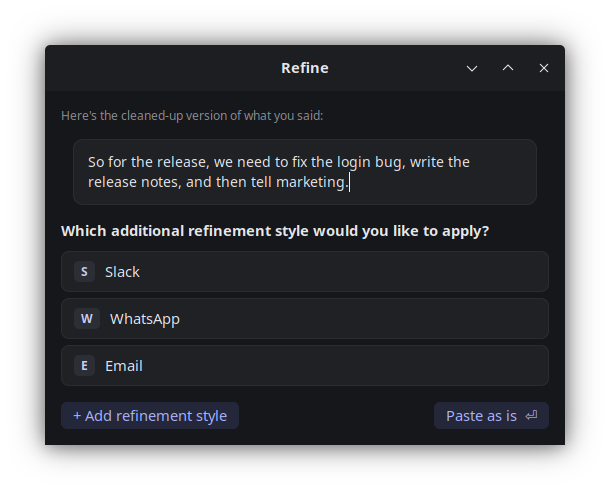
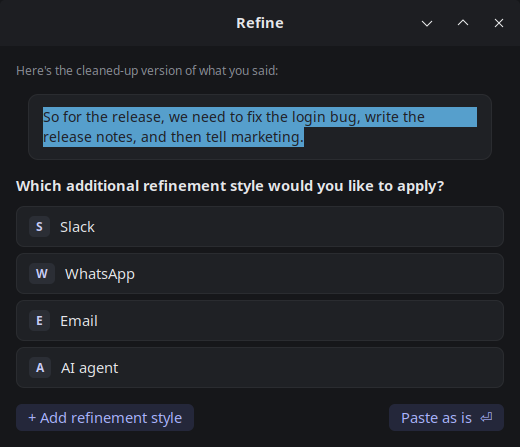
README: factual overview, feature list and technical notes; refresh screenshots
Screenshots are now generated from sample data by docs/make_screenshots.py, which renders the windows off-screen instead of capturing the screen.

diff --git a/docs/make_screenshots.py b/docs/make_screenshots.py
@@ -1,0 +1,88 @@
+#!/usr/bin/env python3
+"""Regenerates the README screenshots in docs/ from sample data: python docs/make_screenshots.py
+
+Windows are drawn off-screen and saved straight to PNG, so nothing on the screen is captured and no
+real history, styles or settings are used."""
+import json, os, shutil, sys, tempfile, wave
+from pathlib import Path
+from types import SimpleNamespace
+
+ROOT = Path(__file__).resolve().parent.parent
+sys.path.insert(0, str(ROOT))
+import dictate, osio, refine, windows  # noqa: E402  (dictate first: it sets up the venv and GTK)
+from gi.repository import GLib, Gtk  # noqa: E402
+
+DOCS = ROOT / "docs"
+SAMPLE = [  # (time, text, raw, app, style, has a recording)
+    ("09:12:04", "Morning! Can you send me the slides before the 10 o'clock?",
+     "um morning can you can you send me the slides before the uh ten o'clock", "Slack", "Slack", True),
+    ("11:40:31", "For the release, we need to:\n- fix the login bug\n- write the release notes\n- tell marketing",
+     "so for the release we need to uh fix the login bug write the release notes and then tell marketing", "Slack", "Slack", True),
+    ("14:05:12", "Run the tests with `pytest -k login` and tell me what fails.",
+     "run the tests with pytest dash k login and tell me what fails", "other computer", "AI agent", True),
+    ("15:22:47", "running about ten minutes late sorry", None, "firefox", None, False),
+]
+
+
+def offscreen(win, path, classes, size):
+    """Move a window's header bar and contents into an off-screen window and save it as a PNG."""
+    bar, body = win.get_titlebar(), win.get_child()
+    win.hide()
+    win.set_titlebar(None)
+    win.remove(body)
+    box = Gtk.Box(orientation=Gtk.Orientation.VERTICAL)
+    box.pack_start(bar, False, False, 0)
+    box.pack_start(body, True, True, 0)
+    off = Gtk.OffscreenWindow()
+    windows.css(off, *classes)
+    off.add(box)
+    off.set_size_request(*size)
+    box.show()  # not show_all(): that would also show widgets the window hides on purpose
+    off.show()
+    for _ in range(50):  # let GTK lay out and paint
+        while Gtk.events_pending():
+            Gtk.main_iteration()
+    off.get_pixbuf().savev(str(path), "png", [], [])
+    print("wrote", path.relative_to(ROOT))
+    win.destroy()
+    off.destroy()
+
+
+def main():
+    tmp = Path(tempfile.mkdtemp())
+    refine.STYLES, refine.VOCAB = tmp / "styles.json", tmp / "vocab.txt"  # the built-in default styles
+    refine.save_styles({"cleanup": refine.CLEANUP, "styles": refine.DEFAULT_STYLES})
+    audio = tmp / "audio"
+    audio.mkdir()
+    history, lines = tmp / "history.jsonl", []
+    for when, text, raw, app, style, has_audio in SAMPLE:
+        entry = {"t": f"2026-10-20T{when}", "text": text, "app": app, "cleanup": raw is not None}
+        if raw:
+            entry["raw"] = raw
+        if style:
+            entry["style"] = style
+        if has_audio:
+            entry["audio"] = f"{when}.wav"
+            with wave.open(str(audio / entry["audio"]), "wb") as w:  # a silent placeholder recording
+                w.setnchannels(1), w.setsampwidth(2), w.setframerate(16000), w.writeframes(bytes(3200))
+        lines.append(json.dumps(entry))
+    history.write_text("\n".join(lines) + "\n")
+
+    windows.install_css()
+    app = SimpleNamespace(player=osio.Player(), cfg={"keep_audio_hours": 24}, KEEP_AUDIO=dictate.KEEP_AUDIO,
+                          set_keep_audio=lambda hours: None, copy=lambda text: None)
+    windows.history(app, history, audio)
+    offscreen(next(w for w in Gtk.Window.list_toplevels() if w.get_title() == "History"), DOCS / "history.png", ["win"], (760, 470))
+
+    picker = windows.StylePicker("So for the release, we need to fix the login bug, write the release notes, "
+                                 "and then tell marketing.", lambda *a: None)
+    offscreen(picker.win, DOCS / "picker.png", ["win"], (520, -1))
+
+    manager = windows.StyleManager()
+    manager.list.select_row(manager.list.get_row_at_index(manager.FIXED))  # the first style (Slack)
+    offscreen(manager.win, DOCS / "styles.png", ["win", "editor"], (760, 560))
+    shutil.rmtree(tmp)
+
+
+if __name__ == "__main__":
+    main()

diff --git a/README.md b/README.md
@@ -1,24 +1,32 @@
 # Dictate
 
-**Talk instead of type: hold a hotkey, speak, and your words appear as clean, punctuated text in whatever app you're using.**
+Push-to-talk dictation that runs entirely on your own computer. Hold a hotkey and speak; when you let go, the transcribed and cleaned-up text is pasted into the app you're typing in. Built for Linux (SteamOS / KDE Plasma); Windows and macOS support is included but untested.
 
-- **Faster than typing.** Most people speak about three times faster than they type.
-- **Reads like you wrote it.** Ums, stutters and "Tuesday, no, Wednesday" are cleaned up, and it can format for Slack, email, WhatsApp or AI agents.
-- **Private and free.** Everything runs on your own computer, with no account, subscription or audio sent anywhere.
+## Features
+- **Hotkey dictation:** hold **Ctrl+Win** (Ctrl+Cmd on a Mac), speak, release to paste.
+- **Local speech recognition:** Parakeet TDT 0.6B on the CPU, transcribing as you speak.
+- **Clean-up:** a local language model (Qwen3.5) removes filler words, applies self-corrections and fixes punctuation and mis-heard words. It uses the GPU when one is free, otherwise the CPU.
+- **Refinement styles:** reformat for Slack, WhatsApp, email or AI agents, or your own styles. Pick one per dictation, set a default, or match styles to apps automatically.
+- **Vocabulary:** names and terms you use, spelled the way you spell them.
+- **History:** every dictation with what was applied, playback of the recording, copy, delete and clear. Recordings are kept for a time you choose.
+- **Synergy:** while your keyboard is controlling another computer, the text is typed there.
+- **Floating icon and system tray icon** with the same menu, and an optional **Run at startup**.
+- **Self-contained:** everything installs into this folder. Dictate sends nothing over the network; models are downloaded once, during setup.
 
 ## Using it
-Hold **Ctrl+Win** (Ctrl+Cmd on a Mac) to record, release to transcribe and paste into the focused text box.
+Hold **Ctrl+Win** to record, release to transcribe and paste into the focused text box.
 - **Tap Alt** while holding: when you let go, a window shows the cleaned-up text and asks which refinement style to apply (press its letter, Enter to paste as is, or Esc to only copy it).
 - **Alt+letter** while holding (e.g. Alt+S): applies that style directly, with no window.
-- **Default style** (right-click > Default style): a style applied to every plain Ctrl+Win dictation after cleanup. Choose "None" for cleanup only.
-- **Per-app styles**: a style whose "Use automatically in apps" keywords match the focused app or window title (e.g. "slack") is used instead of the default. The app's name and title are also given to the model as context.
-- **Vocabulary** (Refinement styles… > Vocabulary): names and terms you use, so cleanup spells them right and fixes mis-hearings.
+- **Default style** (menu > Default style): applied to every plain Ctrl+Win dictation after cleanup. "None" means cleanup only.
+- **Per-app styles:** a style whose "Use automatically in apps" keywords match the focused app or window title (e.g. "slack") is used instead of the default. The app's name and title are also given to the model as context.
+- **Vocabulary** (Refinement styles… > Vocabulary): one name or term per line; cleanup prefers these spellings and fixes mis-hearings of them.
+- **Refine text** (menu): off gives the raw transcript, fastest.
+- **Synergy and similar:** while your keyboard is controlling another computer, Dictate records here and *types* the text, so it arrives there as keystrokes (no microphone needed over there). Per-app styles can't apply there, so it has its own **Default style there**, under **When another computer has the keyboard** in the menu, which can also make it ignore the hotkey instead.
 - On Linux, terminals get Ctrl+Shift+V instead of Ctrl+V.
-- **Synergy and similar**: while your keyboard is controlling another computer, Dictate records here and *types* the text, so it arrives there as keystrokes (no microphone needed over there). Per-app styles can't apply there, so it has its own **Default style there** (under **When another computer has the keyboard** in the menu, which can also make it ignore the hotkey instead).
 
-**History** lists every dictation with what was applied to it (raw transcript, cleanup, and any style). You can play back the recording, copy the text or the original transcript, delete an entry, or clear it all.
+The floating dot is dark when idle, red with pulsing rings while recording, and shows a spinner while transcribing. Drag it to move it. Right-click it (or click the system tray icon) for the menu: Refine text, Default style, History, Refinement styles…, When another computer has the keyboard, Run at startup and Quit.
 
-The floating dot is dark when idle, red with pulsing rings while recording, and shows a spinner while transcribing. Drag it to move it. Right-click it (or click the system tray icon) for Refine text, Default style, History, Refinement styles…, Run at startup and Quit.
+**History** lists every dictation with what was applied (raw transcript, cleanup, and any style). Each entry can play its recording, copy the text or the original transcript, or be deleted; **Clear history** removes everything. **Keep recordings** at the top sets how long audio is kept: not at all, 1–24 hours (default 24), or forever.
 
 ![Floating icon: idle, recording, transcribing](docs/icon-states.png)
 
@@ -27,6 +35,8 @@ The floating dot is dark when idle, red with pulsing rings while recording, and 
 | ![Style picker](docs/picker.png) | ![History](docs/history.png) |
 
 ![Refinement styles](docs/styles.png)
+
+Screenshots are generated from sample data with `python docs/make_screenshots.py` (rendered off-screen).
 
 ## Recommended hardware
 | | Minimum | Recommended |
@@ -37,16 +47,14 @@ The floating dot is dark when idle, red with pulsing rings while recording, and 
 | **Disk** | ~10 GB for the models | SSD, so the models load quickly |
 | **Microphone** | Built-in | A headset or close-up mic: the biggest single help in noisy rooms |
 
-Transcription always runs on the CPU and is quick: about 0.1 s for a sentence. Refining text is the heavy part. With a free GPU it uses the larger 9B model; otherwise it uses the 4B model on the CPU, which is slower (about 1–2 s per dictation on a recent 8-core desktop, longer on laptops). Turn off **Refine text** for the fastest, transcription-only dictation.
-
-Tested on an AMD Ryzen 7 9800X3D with 64 GB of RAM and a Radeon RX 9070 XT (16 GB), where a cleaned-up dictation takes about 0.5–1.5 s in total.
+Transcription runs on the CPU while you speak, so little is usually left when you let go (0.1 s or less, unless you've spoken for a long time without a pause). Refining text is the heavy part: with a free GPU it uses the 9B model, otherwise the 4B model on the CPU, which is slower (about 1–2 s per dictation on a recent 8-core desktop, longer on laptops). Tested on an AMD Ryzen 7 9800X3D with 64 GB of RAM and a Radeon RX 9070 XT (16 GB), where a cleaned-up dictation is ready about 0.5–1.5 s after letting go.
 
 ## Setup (self-contained)
 Each setup script installs into this folder and nothing anywhere else, and is safe to re-run:
 - `models/`: Parakeet TDT 0.6B v3 int8 (~640 MB), the Silero VAD speech filter, and Qwen3.5 4B (~2.7 GB, CPU) and 9B (~5.7 GB, GPU) for refinement.
 - `bin/llama/`: a llama.cpp release (Vulkan on Linux/Windows, Metal on macOS), used for refinement.
 - `.venv/`: Python packages.
-- `data/`: history, settings, refinement styles (`data/styles.json`, managed via right-click > Refinement styles…), and each dictation's recording (`data/audio/`, about 2 MB a minute, kept for 24 hours by default: change it with **Keep recordings** at the top of the History window, from not at all to forever).
+- `data/`: your history, recordings, settings, styles and vocabulary (see Technical notes).
 
 Delete the folder to remove the app completely.
 
@@ -54,6 +62,7 @@ Delete the folder to remove the app completely.
 `./setup.sh`, then `python dictate.py` (it switches to `.venv` automatically). It reuses the system's GTK and evdev bindings read-only.
 If a SteamOS update breaks the app, run `./setup.sh` again; it rebuilds `.venv` for the new system Python.
 To start it at login, tick **Run at startup** in the menu (adds `~/.config/autostart/dictate.desktop`; unticking removes it).
+Other distributions need the same pieces SteamOS ships: read access to `/dev/input/event*` and `/dev/uinput` (SteamOS gets this from Steam's udev rules), PyGObject with GTK 3, python-evdev, the dbusmenu GObject bindings (for the tray), and PipeWire's `pw-record`/`pw-play`. Focused-app detection uses KWin, so per-app styles need KDE.
 
 ### Windows 10/11 (untested)
 1. Install Python 3.14: `winget install -e --id Python.Python.3.14` (GTK's Python bindings are built for 3.14).
@@ -70,13 +79,26 @@ Hold **Ctrl+Win**. The GPU model is used on NVIDIA cards with enough free memory
 Hold **Ctrl+Cmd** (Option is Alt). There's no menu-bar icon on macOS (GTK 3 can't make one), so use the floating icon's menu. **Run at startup** adds a LaunchAgent (`~/Library/LaunchAgents/local.dictate.plist`). macOS will ask for Microphone, Input Monitoring (hotkey) and Accessibility (paste) permissions for the app you launch it from; restart Dictate after granting them. Screen Recording is optional and lets per-app styles see window titles. Macs with 16 GB of RAM or more use the 9B model on the GPU (Metal).
 
 ## Code
-- `dictate.py`: floating icon and the dictation pipeline
-- `osio.py`: everything OS-specific: global hotkey, recording, paste and run-at-startup (evdev/pw-record/uinput on Linux, pynput/sounddevice on Windows and macOS)
-- `stt.py`: transcription. The VAD strips non-speech, then Parakeet runs on the CPU. It transcribes while you speak: each stretch is transcribed as soon as you pause, so little is left when you let go.
+- `dictate.py`: floating icon, menu and the dictation pipeline (record → transcribe → cleanup → style → paste or type).
+- `osio.py`: everything OS-specific: global hotkey, recording, playback, paste, typing and run-at-startup (evdev/pw-record/pw-play/uinput on Linux, pynput/sounddevice on Windows and macOS).
+- `stt.py`: transcription. The VAD strips non-speech, then Parakeet runs on the CPU. `Live` follows the recording while it grows and transcribes each stretch of speech as soon as you pause; `transcribe()` does a whole file (the fallback).
+- `refine.py`: the default cleanup, then any style on top; style storage. Pressing the hotkey (or Alt) starts loading the model: the larger GPU model if the GPU has enough free memory and is under 30% busy, otherwise the smaller CPU model (`MODELS`). It's unloaded after 30 s of no use.
 - `windows.py`: History, the refinement style manager, and the style picker.
 - `remote.py`: tells when the keyboard is on another computer (so the text is typed there), from KWin's input-capture signals and Synergy's log.
 - `tray.py`: the system tray icon with the same menu (a StatusNotifierItem plus dbusmenu on KDE, GTK's status icon on Windows).
 - `activewin.py` + `kwin_active.js`: tracks the focused window. On KDE, KWin loads the script at runtime and unloads it on exit; it's never installed. Windows and macOS ask the OS directly.
 - `fetch.py`: downloads the models and the right llama.cpp build; used by every setup script.
 - `bench.py`: compares every `models/*.gguf` on your recent dictations: `python bench.py`.
-- `refine.py`: the default cleanup (toggle with right-click > Refine text), then any additional style on top. Pressing the hotkey (or Alt) starts loading the model: the larger GPU model if the GPU has enough free memory and is under 30% busy, otherwise the smaller CPU model (`MODELS` in refine.py). It's unloaded after 30 s of no use. History keeps the raw transcript as "Original".
+- `docs/make_screenshots.py`: regenerates the README screenshots from sample data.
+
+## Technical notes
+- **Data** (`data/`, not in git):
+  - `history.jsonl`: one JSON object per dictation: `t`, `text`, `app`, `cleanup` (bool), and, when present, `raw` (the transcript, if refinement changed it), `style`, `audio`.
+  - `audio/*.wav`: the recordings (16 kHz mono, about 2 MB a minute). They're pruned to the **Keep recordings** setting at startup, every 10 minutes and when it changes.
+  - `styles.json`: the cleanup prompt; the styles (`name`, `key`, `apps`, `prompt`, `default`); and `remote_default` (absent means "same as here").
+  - `vocab.txt`: one term per line. `state.json`: icon position and menu settings.
+- **Refinement safety checks** (`refine.suspicious`): a model output is rejected, and the input kept, if it's empty, loses all the question marks, is less than half the length, adds a `[placeholder]`, or (for cleanup) changes too much, or (for styles) keeps less than 60% of the words. The fixed instructions in `refine.GUARD` sit above every style.
+- **Model server:** llama-server on a random localhost port, started from one long-lived thread with a parent-death SIGKILL (Linux), so it can't outlive the app. It's stopped with SIGTERM, then SIGKILL after 3 s.
+- **Single instance:** Dictate binds localhost port 47613 at startup; a second copy exits.
+- **Remote screens:** KWin's input-capture broadcasts and Synergy's log are combined, as neither caught every switch alone. A capture must last 0.2 s to count, as a disconnected Synergy flickers every few milliseconds.
+- **Logs:** written to stdout; when started from the desktop, see `journalctl --user`. Each dictation logs `recording: N ms after the key was pressed` (from the kernel's key timestamp), which is useful for spotting latency.
